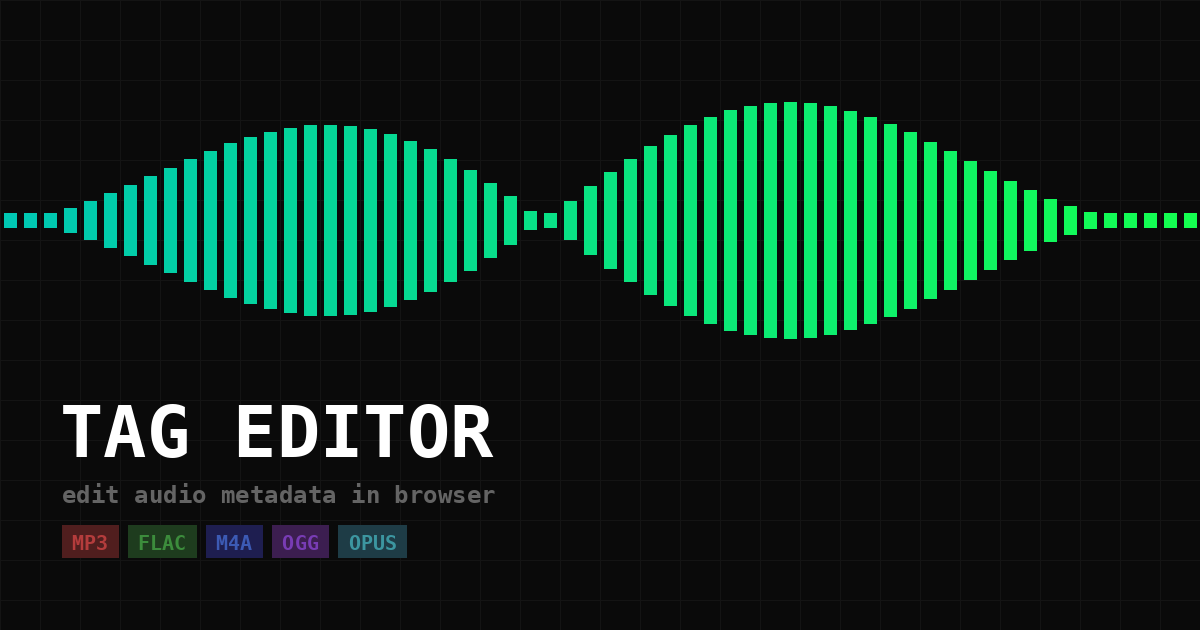
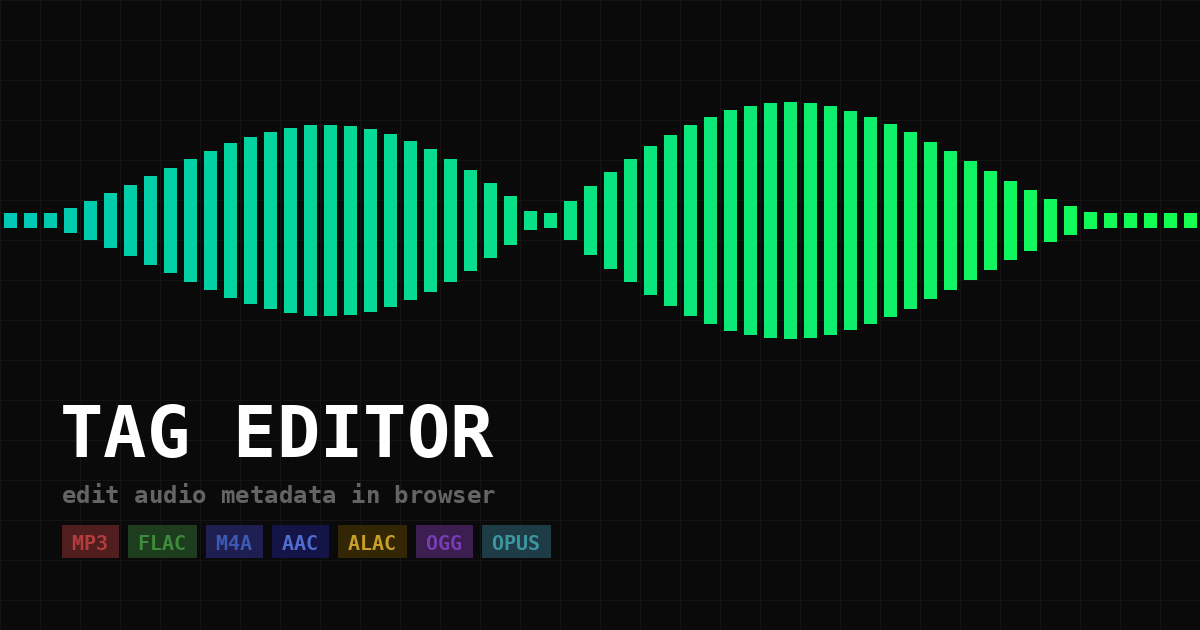
v1.4.3 - OG image: add AAC and ALAC as discrete format badges
og.png now shows 7 badges (MP3, FLAC, M4A, AAC, ALAC, OGG, OPUS)
to reflect actual codec-level specificity. AAC = lossy M4A (blue),
ALAC = lossless M4A (amber/gold). Meta tag cache-busted to ?v=5.

Changed region(s): [[0.2158, 0.8143, 0.4625, 0.9048]]

diff --git a/index.html b/index.html
@@ -9,13 +9,13 @@
 <link rel="shortcut icon" href="favicon.ico">
 <meta property="og:title" content="Tag Editor">
 <meta property="og:description" content="Edit metadata in any audio format directly in your browser. No upload, no server — all local.">
-<meta property="og:image" content="https://wendy.monster/tag-editor/og.png?v=3">
+<meta property="og:image" content="https://wendy.monster/tag-editor/og.png?v=5">
 <meta property="og:url" content="https://wendy.monster/tag-editor/">
 <meta property="og:type" content="website">
 <meta name="twitter:card" content="summary_large_image">
 <meta name="twitter:title" content="Tag Editor">
 <meta name="twitter:description" content="Edit metadata in any audio format directly in your browser. No upload, no server — all local.">
-<meta name="twitter:image" content="https://wendy.monster/tag-editor/og.png?v=3">
+<meta name="twitter:image" content="https://wendy.monster/tag-editor/og.png?v=5">
 <link rel="manifest" href="manifest.json">
 <meta name="theme-color" content="#111111">
 <meta name="apple-mobile-web-app-capable" content="yes">
